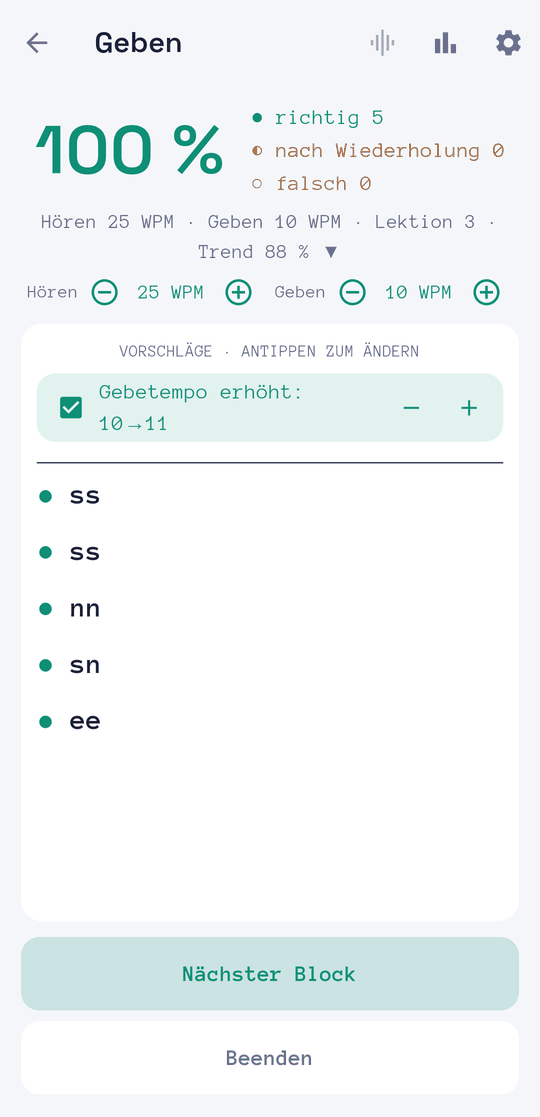
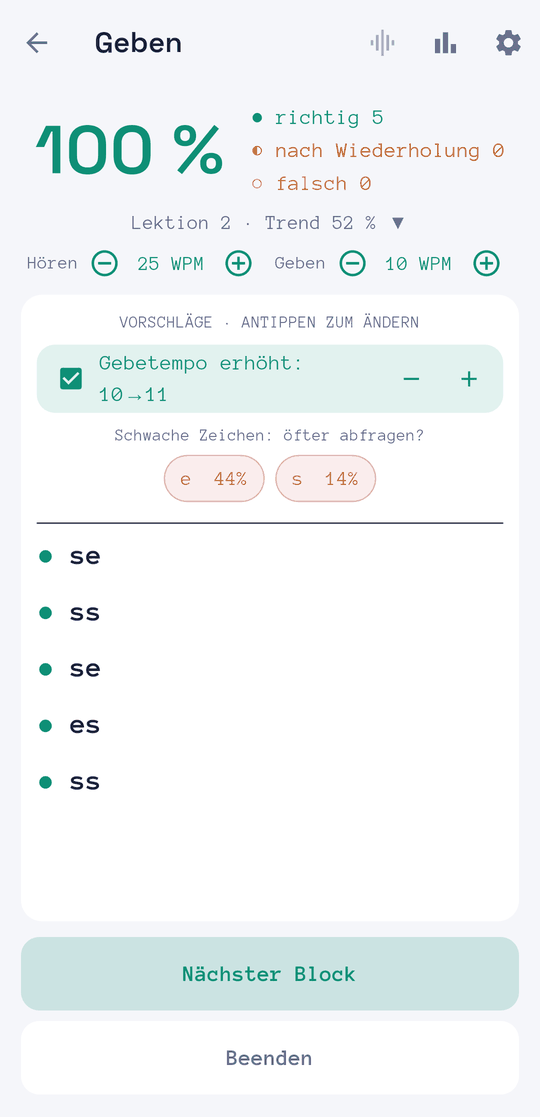
Setting to swap the on-screen paddles (dah left); retake echo_result2 screenshots
Touch buttons only: learned hardware keys stay as taught.

diff --git a/android/test/paddle_layout_test.dart b/android/test/paddle_layout_test.dart
@@ -1,0 +1,45 @@
+import 'package:flutter/material.dart';
+import 'package:flutter_test/flutter_test.dart';
+import 'package:shared_preferences/shared_preferences.dart';
+import 'package:next_cw_trainer/ui/widgets/paddle_widgets.dart';
+import 'package:next_cw_trainer/util/paddle_layout.dart';
+
+void main() {
+  setUp(() => SharedPreferences.setMockInitialValues({}));
+
+  Future<void> pump(WidgetTester t, List<String> events) => t.pumpWidget(MaterialApp(
+        home: Scaffold(
+          body: IambicPaddles(
+            onDitDown: () => events.add('ditDown'), onDitUp: () {},
+            onDahDown: () => events.add('dahDown'), onDahUp: () {}),
+        ),
+      ));
+
+  testWidgets('dit left by default; swapping puts dah left, keys keep their meaning',
+      (t) async {
+    final events = <String>[];
+    await pump(t, events);
+    expect(t.getCenter(find.text('DIT  ·')).dx < t.getCenter(find.text('DAH  —')).dx, isTrue);
+
+    await PaddleLayout.setSwapped(true);
+    await t.pumpAndSettle();
+    expect(t.getCenter(find.text('DAH  —')).dx < t.getCenter(find.text('DIT  ·')).dx, isTrue);
+
+    // The button labelled DIT still sends dit, wherever it sits.
+    final g = await t.startGesture(t.getCenter(find.text('DIT  ·')));
+    await g.up();
+    expect(events, ['ditDown']);
+
+    await PaddleLayout.setSwapped(false);
+    await t.pumpAndSettle();
+    expect(t.getCenter(find.text('DIT  ·')).dx < t.getCenter(find.text('DAH  —')).dx, isTrue);
+  });
+
+  test('swap is persisted', () async {
+    await PaddleLayout.setSwapped(true);
+    PaddleLayout.swapped.value = false;
+    await PaddleLayout.load();
+    expect(PaddleLayout.swapped.value, isTrue);
+    await PaddleLayout.setSwapped(false);
+  });
+}

diff --git a/android/lib/ui/widgets/paddle_widgets.dart b/android/lib/ui/widgets/paddle_widgets.dart
@@ -5,6 +5,7 @@ import 'package:flutter/material.dart';
 import '../../l10n/strings.dart';
 import '../../theme/app_colors.dart';
 import '../../util/bluetooth_hint.dart';
+import '../../util/paddle_layout.dart';
 import '../settings_screen.dart';
 
 class IambicPaddles extends StatelessWidget {
@@ -19,13 +20,20 @@ class IambicPaddles extends StatelessWidget {
       const BluetoothLatencyHint(),
       Padding(
         padding: const EdgeInsets.symmetric(horizontal: 16),
-        child: Row(children: [
-          Expanded(child: PaddleButton(label: 'DIT  ·',
-              color: c.accent, onDown: onDitDown, onUp: onDitUp)),
-          const SizedBox(width: 12),
-          Expanded(child: PaddleButton(label: 'DAH  —',
-              color: c.warning, onDown: onDahDown, onUp: onDahUp)),
-        ]),
+        child: ValueListenableBuilder<bool>(
+          valueListenable: PaddleLayout.swapped,
+          builder: (context, swapped, _) {
+            final dit = Expanded(child: PaddleButton(label: 'DIT  ·',
+                color: c.accent, onDown: onDitDown, onUp: onDitUp));
+            final dah = Expanded(child: PaddleButton(label: 'DAH  —',
+                color: c.warning, onDown: onDahDown, onUp: onDahUp));
+            return Row(children: [
+              swapped ? dah : dit,
+              const SizedBox(width: 12),
+              swapped ? dit : dah,
+            ]);
+          },
+        ),
       ),
     ]);
   }

diff --git a/android/lib/ui/settings_screen.dart b/android/lib/ui/settings_screen.dart
@@ -11,6 +11,7 @@ import 'widgets/setting_rows.dart';
 import 'interference_settings_card.dart';
 import '../util/bluetooth_hint.dart';
 import '../util/break_reminder.dart';
+import '../util/paddle_layout.dart';
 import '../util/practice_clock.dart';
 import '../util/reminder.dart';
 
@@ -437,6 +438,18 @@ class _SettingsScreenState extends State<SettingsScreen> {
               selected: _keyerMode,
               onChanged: _applyKeyerMode,
             ),
+            // On-screen paddles only; learned hardware keys stay as learned.
+            if (_keyerMode != 4) ...[
+              const SettingsDivider(),
+              ValueListenableBuilder<bool>(
+                valueListenable: PaddleLayout.swapped,
+                builder: (context, on, _) => ToggleRow(
+                  label: Strings.t('settings_swap_touch_paddles'),
+                  value: on,
+                  onChanged: PaddleLayout.setSwapped,
+                ),
+              ),
+            ],
             if (_keyerMode == 1 || _keyerMode == 2) ...[
               const SettingsDivider(),
               LabeledSlider(label: Strings.t('settings_curtisb_dit'),

diff --git a/android/lib/util/paddle_layout.dart b/android/lib/util/paddle_layout.dart
@@ -1,0 +1,25 @@
+import 'package:flutter/foundation.dart';
+import 'package:shared_preferences/shared_preferences.dart';
+
+/// Side of the two on-screen paddles (soft keys). Only the touch buttons swap;
+/// hardware paddles keep whatever "Learn dit/dah keys" assigned, so a learned
+/// reversal is never undone by this setting. Shared by all paddle widgets.
+class PaddleLayout {
+  PaddleLayout._();
+
+  static const prefKey = 'touchPaddlesSwapped';
+
+  /// True: dah on the left, dit on the right. Default false (dit left).
+  static final swapped = ValueNotifier<bool>(false);
+
+  static Future<void> load() async {
+    final p = await SharedPreferences.getInstance();
+    swapped.value = p.getBool(prefKey) ?? false;
+  }
+
+  static Future<void> setSwapped(bool v) async {
+    swapped.value = v;
+    final p = await SharedPreferences.getInstance();
+    await p.setBool(prefKey, v);
+  }
+}

diff --git a/android/lib/l10n/strings.dart b/android/lib/l10n/strings.dart
@@ -549,6 +549,7 @@ class Strings {
     'settings_answer_wpm_same': ['wie Hören', 'same as prompt'],
     'settings_answer_wpm_help': ['Deine Antwort wird mit höchstens diesem Tempo erwartet. Vorgespielt wird weiter mit dem normalen Tempo.', 'Your answer is expected at this speed at most. The prompt still plays at the normal speed.'],
     'echo_answer_wpm': ['Geben', 'Send'],
+    'settings_swap_touch_paddles': ['Bildschirm-Paddles vertauschen (Dah links)', 'Swap on-screen paddles (dah left)'],
     'settings_learn_paddle_keys': ['Dit-/Dah-Tasten anlernen', 'Learn dit/dah keys'],
     'settings_analyze_key_events': ['Key-Events analysieren', 'Analyze key events'],
     'settings_build_time': ['Gebaut', 'Built'],

diff --git a/android/lib/main.dart b/android/lib/main.dart
@@ -7,6 +7,7 @@ import 'licenses.dart';
 import 'util/bluetooth_hint.dart';
 import 'util/break_reminder.dart';
 import 'util/interference_profile.dart';
+import 'util/paddle_layout.dart';
 import 'util/practice_clock.dart';
 import 'util/reminder.dart';
 import 'util/share_intake.dart';
@@ -20,6 +21,7 @@ void main() async {
   ]);
   await ThemeController.load();
   await Strings.load();
+  await PaddleLayout.load();
   registerAppLicenses();
   InterferenceProfile.pushSaved();
   await PracticeClock.instance.init();

diff --git a/docs/STATUS.md b/docs/STATUS.md
@@ -35,14 +35,16 @@ repo Settings -> Pages -> Source "GitHub Actions". Then replace the disabled
 and set the Play listing's website to the Pages URL (decision in DECISIONS.md).
 
 ## Manual: pending for next release
-- Retaken 2026-10-05 (DE+EN, after the layout fixes): `hear_start`,
-  `hear_result`, `hear_weak`, `hear_sheet2`, `echo_start`, `echo_result`.
-  Still open: `echo_result2` (Send result with a ticked suggestion; needs a
-  100 % block, adb keying isn't reliable enough, tap one block by hand) —
-  DE+EN. Other ⚙ sheet shots may still show the old wraps. Taken on a debug
-  build with the phone's prefs backed up and restored afterwards;
+- Retaken 2026-10-05 (DE+EN): `hear_start`, `hear_result`, `hear_weak`,
+  `hear_sheet2`, `echo_start`, `echo_result`, `echo_result2` (the last one
+  needs a 100 % block played by hand; the suggestion is not pre-ticked, tick
+  it before the shot). Other ⚙ sheet shots may still show the old wraps. Taken
+  on a debug build with the phone's prefs backed up and restored afterwards;
   `tools/echo_loop.py` knows "Gruppe n /" and "Geben …", needs Echo Prompt =
   Both (`echoDisplayMode` 3).
+- Branch `feature/swap-touch-paddles`: new Keyer setting "Swap on-screen
+  paddles"; retake the Keyer settings shot (`settings1.png`, DE+EN) and
+  `keyer.png` if wanted (the touch paddles themselves look the same by default).
 - Issue #37 (branch `fix/keyer-unknown-and-umlauts`, not yet installed): keyer
   text now shows `*`/`ERR`/umlauts; retake `keyer.png` only if it shows a `?`.
 

diff --git a/manual/manual_de.md b/manual/manual_de.md
@@ -2497,6 +2497,7 @@ Diese Einstellungen gelten überall, wo du tastest.
 | Einstellung | Bedeutung | Werte |
 |---|---|---|
 | Modus | Wie der Keyer die Tasten auswertet (siehe unten) | **Iambic A** / Iambic B / Ultimatic / Non-Squeeze / Straight |
+| Bildschirm-Paddles vertauschen | Setzt bei den beiden Touch-Tasten **Dah** nach links und **Dit** nach rechts. Wirkt nur auf die Tasten am Bildschirm, nicht auf die Tasten eines Adapters (die bleiben, wie du sie angelernt hast, siehe [Dit-/Dah-Tasten anlernen](#dit-dah-tasten-anlernen)). Bei Straight nicht angezeigt | **Aus** / An |
 | CurtisB Dit-Timing | Nur Iambic B und Ultimatic: ab wie viel Prozent eines Dits ein Druck auf die andere Taste schon gespeichert wird | 0–100 % in 5er-Schritten (**75 %**) |
 | CurtisB Dah-Timing | Dasselbe für Dahs | 0–100 % in 5er-Schritten (**45 %**) |
 | Auto-Zeichenabstand | Erzwingt eine Mindestpause zwischen Zeichen, damit sie nicht zusammenlaufen. Bei Straight nicht verfügbar | **Aus** / 2 / 3 / 4 Dits |

diff --git a/manual/manual_en.md b/manual/manual_en.md
@@ -2411,6 +2411,7 @@ These settings apply wherever you key.
 | Setting | Meaning | Values |
 |---|---|---|
 | Mode | How the keyer reads the keys (see below) | **Iambic A** / Iambic B / Ultimatic / Non-Squeeze / Straight |
+| Swap on-screen paddles | Puts **dah** on the left and **dit** on the right of the two touch buttons. Affects only the on-screen buttons, not the keys of an adapter (those stay as you taught them, see [Learning the dit and dah keys](#learning-the-dit-and-dah-keys)). Not shown for Straight | **Off** / On |
 | CurtisB dit timing | Iambic B and Ultimatic only: from what percentage of a dit a press on the other key is already stored | 0–100 % in steps of 5 (**75 %**) |
 | CurtisB dah timing | The same for dahs | 0–100 % in steps of 5 (**45 %**) |
 | Auto character spacing | Enforces a minimum pause between characters so they don't run together. Not available for Straight | **Off** / 2 / 3 / 4 dits |

diff --git a/docs/DECISIONS.md b/docs/DECISIONS.md
@@ -1682,3 +1682,12 @@ abbreviations are filtered from the pool by the range; groups draw the length
 per group (`CwGenerator.drawGroupLength`, and `_pickAdaptiveGroup` for the
 Dart-side adaptive draw). The Mixed content shows the group slider too, since
 Koch-mixed already draws groups. This is an app extension, not in the firmware.
+
+
+## Swap on-screen paddles affects the touch buttons only (2026-10-05)
+Keyer setting `touchPaddlesSwapped` (default off) puts dah left / dit right on
+the on-screen paddles (`IambicPaddles`, via `PaddleLayout`). It deliberately
+does not touch the learned hardware keys: anyone who taught dit/dah to their
+adapter did so on purpose for that device, and a second reversal from this
+setting would undo it. The buttons keep their meaning (the DIT button still
+sends dit); only their position changes. Hidden for Straight (one button).
